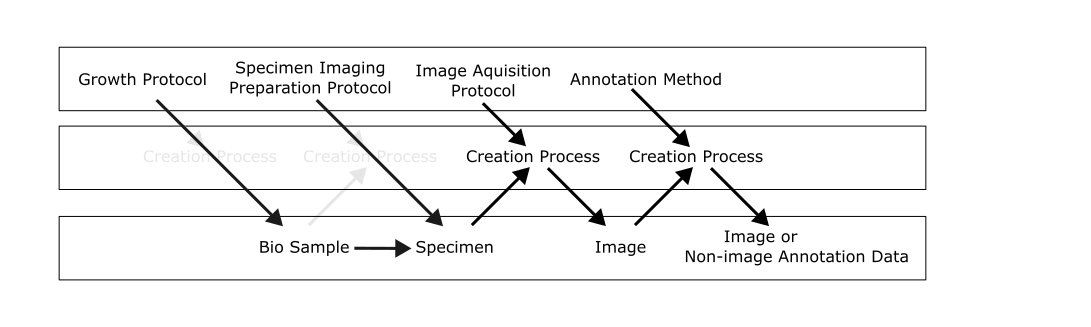
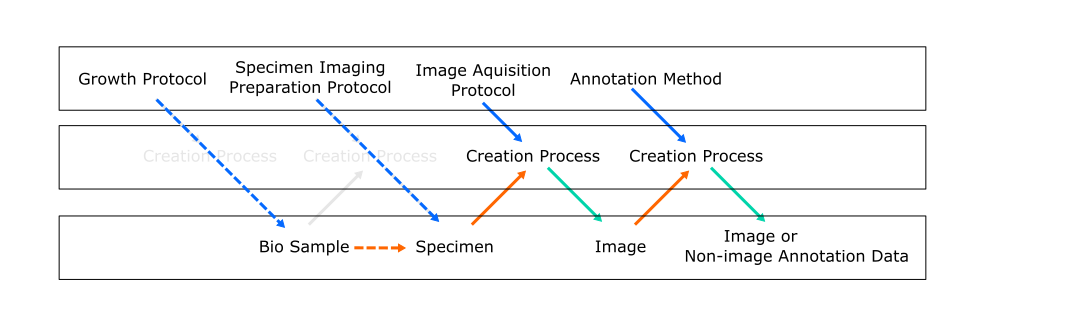
added colour to images and explained image representation more

diff --git a/src/bia_ro_crate/models/model_docs/MODEL.md b/src/bia_ro_crate/models/model_docs/MODEL.md
@@ -16,7 +16,7 @@ There are also 2 _'processed'_ images, created by taking each of the _'raw'_ Ima
 
 The data has been grouped into 2 Datasets: one for all the 'raw' data, the other for the 'processed'. This was up to the preference of the submitter, and not a requirement of the data model. They could equally have created more datasets, divided up the Images and AnnotationData differently, or submitted them all in one. The Datasets can be connected to the various protocols, and BioSample through aggregated connections, summarising the connections described at the Image level.
 
-Though it is only shown for one Image, each can be connected to multiple ImageRepresentations, which are used to identify and describe different serializations of the same underlying data (for instance, conversions between multiple formats).
+Though it is only shown for one Image, each can be connected to multiple ImageRepresentations, which are used to identify and describe different serializations of the same underlying data (for instance, conversions between multiple formats). Each Image should have at least one representation - the form the data was submitted in by the user.
 
 ![pic 6](ro-crate-detailed-datamodels_6.png)
 
